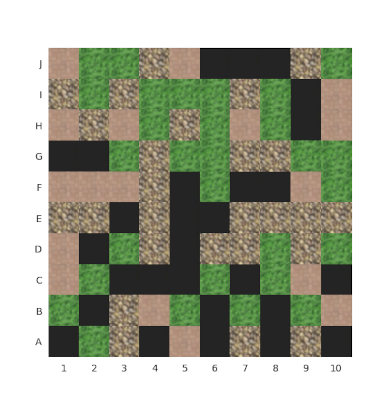
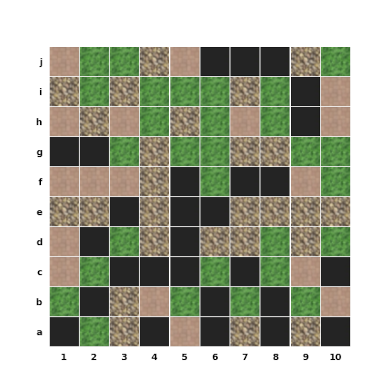
Depurando codigo de generador de mapas y añadiendo busqueda con descripcion

diff --git a/ambasBusquedasConDescripcion.py b/ambasBusquedasConDescripcion.py
@@ -1,0 +1,158 @@
+'''
+Los métodos "buscar_solucion_UCS()" y "buscar_solucion_BFS()" fueron tomados del libro:
+INTELIGENCIA ARTIFICIAL, Fundamentos, práctica y aplicaciones.
+Alberto García Serrano, 2012, pag 43 y pag 61. 
+'''
+from arbol import Nodo
+from mapas import *
+
+class Metodo_de_Busqueda(Nodo):
+    def __init__(self, mapaElegido, estado_inicial,solucion):
+        self.mapaElegido = mapaElegido
+        self.estado_inicial = estado_inicial
+        self.solucion = solucion  
+    # Código para el algoritmo de búsqueda por coste uniforme:
+    def buscar_solucion_UCS(self):
+        self.solucionado = False
+        self.nodos_visitados = []
+        self.nodos_frontera = []
+        self.nodo_inicial = Nodo(self.estado_inicial)
+        self.nodo_inicial.set_coste(0)   
+        self.nodos_frontera.append(self.nodo_inicial)
+
+        # Los métodos "compara" y "comp_to_key" lo único que hacen es indicarle al método "sorted" cómo ordenar los elementos.
+        def compara(x,y):
+            return x.get_coste() - y.get_coste()
+        def cmp_to_key(mycmp):
+            'Convert a cmp= function into a key= function'
+            class K:
+                def __init__(self, obj, *args):
+                    self.obj = obj
+                def __lt__(self, other):
+                    return mycmp(self.obj, other.obj) < 0
+                def __gt__(self, other):
+                    return mycmp(self.obj, other.obj) > 0
+                def __eq__(self, other):
+                    return mycmp(self.obj, other.obj) == 0
+                def __le__(self, other):
+                    return mycmp(self.obj, other.obj) <= 0
+                def __ge__(self, other):
+                    return mycmp(self.obj, other.obj) >= 0
+                def __ne__(self, other):
+                    return mycmp(self.obj, other.obj) != 0
+            return K
+        
+        print("Iniciando búsqueda UCS")
+        iteraciones = 0
+
+        while not self.solucionado and len(self.nodos_frontera) != 0:
+            #Se ordena la lista de nodos frontera:
+            self.nodos_frontera = sorted(self.nodos_frontera, key = cmp_to_key(compara))
+            self.nodo=self.nodos_frontera[0]
+
+            # Iteracion actual y nodo visitado
+            print(f"Iteración {iteraciones}, Nodo visitado: {self.nodo}")
+
+            #Se extrae el nodo y se añade a los nodos visitados:
+            self.nodos_visitados.append(self.nodos_frontera.pop(0))
+
+            if (self.nodo.get_datos()) == self.solucion:
+                #Solucion encontrada
+                self.solucionado = True
+                return self.nodo
+            else:
+                #Se expanden los nodos hijos (casillas siguientes que se pueden recorrer)
+                self.dato_nodo = self.nodo.get_datos()
+                self.lista_hijos = []
+                for self.un_hijo in self.mapaElegido[self.dato_nodo]:
+                    self.hijo = Nodo(self.un_hijo)
+                    self.coste = self.mapaElegido[self.dato_nodo][self.un_hijo]
+                    self.hijo.set_coste(self.nodo.get_coste() + self.coste)
+                    self.lista_hijos.append(self.hijo)
+
+                    if not self.hijo.en_lista(self.nodos_visitados):
+                        if self.hijo.en_lista(self.nodos_frontera):
+                            for self.n in self.nodos_frontera:
+                                if self.n.igual(self.hijo) and self.n.get_coste() > self.hijo.get_coste():
+                                    self.nodos_frontera.remove(self.n)
+                                    self.nodos_frontera.append(self.hijo)
+                        else:
+                            self.nodos_frontera.append(self.hijo)
+                self.nodo.set_hijos(self.lista_hijos)
+
+            # Sumar 1 a contador de iteraciones
+            iteraciones += 1
+            
+            
+    # Código para el algoritmo de búsqueda por amplitud:
+    def buscar_solucion_BFS(self):
+        self.solucionado = False
+        self.nodos_visitados = []
+        self.nodos_frontera = []
+        self.nodoInicial = Nodo(self.estado_inicial)
+        self.nodos_frontera.append(self.nodoInicial)
+
+        print("Iniciando búsqueda BFS")
+        iteraciones = 0
+
+        while not self.solucionado and len(self.nodos_frontera) != 0:
+            self.nodo = self.nodos_frontera[0]
+
+            # Iteracion actual y nodo visitado
+            print(f"Iteración {iteraciones}, Nodo visitado: {self.nodo}")
+
+            #Se extrae el nodo y se añade a visitados
+            self.nodos_visitados.append(self.nodos_frontera.pop(0))
+            if self.nodo.get_datos() == self.solucion:
+                #Solucion encontrada
+                self.solucionado = True
+                return self.nodo
+            else: 
+                #expandir nodos hijo (casillas siguientes que se pueden recorrer)
+                self.dato_nodo = self.nodo.get_datos()
+                self.lista_hijos = []
+                for self.un_hijo in self.mapaElegido[self.dato_nodo]:
+                    self.hijo = Nodo(self.un_hijo)
+                    self.lista_hijos.append(self.hijo)
+                    if not self.hijo.en_lista(self.nodos_visitados) and not self.hijo.en_lista(self.nodos_frontera):
+                        self.nodos_frontera.append(self.hijo)
+
+            self.nodo.set_hijos(self.lista_hijos)
+
+            # Sumar 1 a contador de iteraciones
+            iteraciones += 1
+
+###########################################################################################################################################################################
+# Esta sección del código está para cuando se quiera ejecutar sólo el archivo "ambasBusquedas.py" sin necesidad de ejecutar la interfaz.
+# Es posible probar los algoritmos desde una terminal.
+
+if __name__=="__main__":
+    mapaEscogido = Mapa.MapaSinSolucion
+    origen = input("Ingrese ciudad origen: " )
+    destino = input("Ingrese destino: ")
+
+    tipoDeCalculo = 0
+    
+    while tipoDeCalculo != '1' and tipoDeCalculo != '2':
+        tipoDeCalculo = input("Para calcular la ruta con menos consumo de energía digite 1 , si desea calcular la más corta digite 2 : ")
+        if tipoDeCalculo == '1':
+            nodo_solucion = Metodo_de_Busqueda(mapaEscogido, origen, destino).buscar_solucion_UCS()
+            
+        elif tipoDeCalculo == '2':
+            nodo_solucion = Metodo_de_Busqueda(mapaEscogido, origen, destino).buscar_solucion_BFS()
+            
+        else:
+            print("No digito ni 1 ni 2, intente nuevamente.") 
+
+    #Mostrar resultado:
+    resultado = []
+    nodo = nodo_solucion
+    while nodo.get_padre() != None:
+        resultado.append(nodo.get_datos())
+        nodo = nodo.get_padre()  
+    resultado.append(origen)
+    resultado.reverse()
+    print(resultado)
+    print("Coste: " + str(nodo_solucion.get_coste())) 
+
+#############################################################################################################################################################################

diff --git a/generadorMapa.py b/generadorMapa.py
@@ -28,16 +28,16 @@ def crear_mapa():
     return mapa
 
 # Crear propio mapa
-mapa = crear_mapa()
+#mapa = crear_mapa()
 
 # Cargar mapa
 mapa = cargar_mapa("MapaSinSolucion.txt")
 
 # Mapa aleatorio
-mapa = generar_mapa_aleatorio(10, 10)
+#mapa = generar_mapa_aleatorio(10, 10)
 
 # Guardar el mapa generado en un archivo de texto
-guardar_mapa("MapaSinSolucion.txt", mapa)
+#guardar_mapa("MapaSinSolucion.txt", mapa)
 
 
 #################################################
@@ -74,8 +74,8 @@ for i in range(m):
 # Configurar las etiquetas de las filas (letras)
 ax.set_xticks(np.arange(0, m, 1))
 ax.set_yticks(np.arange(0, n, 1))
-ax.set_xticklabels(range(1, m + 1))
-ax.set_yticklabels([chr(65 + i) for i in range(n)])
+ax.set_xticklabels(range(1, m + 1), fontweight='bold')
+ax.set_yticklabels([chr(97 + i) for i in range(n)], fontweight='bold')
 
 # Configurar los límites de los ejes para mostrar completamente la cuadrícula
 ax.set_xlim(-0.5, m - 0.5)

diff --git a/traductorMapa.py b/traductorMapa.py
@@ -35,4 +35,6 @@ with open("MapaSinSolucion.txt", 'r') as archivo:
 
 diccionario_vecinos = generar_diccionario_vecinos(mapa)
 for casilla, vecinos in diccionario_vecinos.items():
-    print(f'{casilla}: {vecinos}')
+    print(f"'{casilla}': {vecinos},")
+
+print("\nCopie y pegue el mapa de arriba en un nuevo diccionario de mapas.py")
